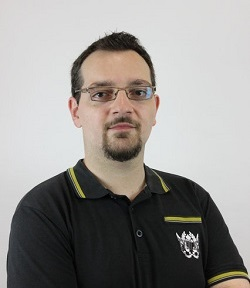
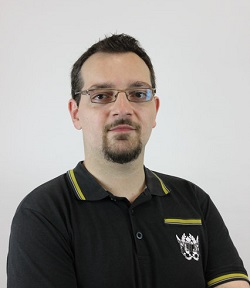
aside en sticky en mode desktop + réglages affichage articles en mode tablette et smartphone bascule d'écran

diff --git a/index.html b/index.html
@@ -78,7 +78,7 @@
 
                     </li>
                     <li >
-                        <article class="content container column lightGrayBack">
+                        <article class="content container column">
                             <div class="container">
                                 <i class="fas fa-circle"></i>
                                 <div>
@@ -109,7 +109,7 @@
                         </article>
                     </li>
                     <li>
-                        <article class="content container column lightGrayBack">
+                        <article class="content container column">
                             <div class="container"><i class="fas fa-circle"></i>
                                 <div>
                                     <p>Juin 2005</p>
@@ -156,7 +156,7 @@
                         </article>
                     </li>
                     <li>
-                        <article class="content container column lightGrayBack">
+                        <article class="content container column">
                             <div class="container">
                                 <i class="fas fa-circle"></i>
                                 <div>
@@ -343,24 +343,24 @@
                 <h2>Contact</h2>
 
                 <p><i class="fas fa-envelope"></i>
-                    alexis.georges54@gmail.com</p>
+                    alexis.georges54@gmail.com</br>
 
-                <p><i class="fas fa-phone-alt"></i>
-                    06.00.00.00.00</p>
+                <i class="fas fa-phone-alt"></i>
+                    06.00.00.00.00</br>
 
-                <p><i class="fas fa-map-marker-alt"></i>
-                    57000 Metz</p>
+                <i class="fas fa-map-marker-alt"></i>
+                    57000 Metz</br>
 
-                <p><i class="fab fa-linkedin"></i>
+                <i class="fab fa-linkedin"></i>
                     <a href="https://www.linkedin.com/in/alexis-georges/"
-                        target="_blank">linkedin.com/in/alexis-georges</a></p>
+                        target="_blank">linkedin.com/in/alexis-georges</a></br>
 
-                <p><i class="fab fa-github"></i>
+                <i class="fab fa-github"></i>
                     <a href="https://github.com/AlexisG-Webdev" target="_blank">AlexisG-Webdev</a></p>
             </article>
 
             <article id="about">
-                <h2>A propos de moi</h2>
+                <h2>A propos</h2>
 
                 <p>Apud has gentes, sed errant semper per spatia longe lateque distenta sine lare sine sedibus fixis
                     aut

diff --git a/style.css b/style.css
@@ -13,7 +13,7 @@
     border-radius: 50%;
     height       : 250px;
     width        : 250px;
-    margin-top   : 15px;
+    margin-top   : 20px;
     margin-left : auto;
     margin-right: auto;
 }
@@ -92,12 +92,6 @@ footer,
 }
 
 
-
-.lightGrayBack{
-    background-color: rgb(224,224,224);
-
-}
-
 /*** MISE EN PAGE ***/
 
 .container {
@@ -143,21 +137,17 @@ footer,
 
 #sectionContent ul li {
     list-style-type: none;
-    /* margin-left    : -40px; */
+    margin-left    : -15px;
 }
 
 #sectionContent ul ul li {
     list-style-type: square;
 }
 
-
-
 #hobbiesIcons,
 #footer {
     padding: 20px;
 }
-
-
 
 #footer,
 #contact i.fas,
@@ -182,14 +172,66 @@ footer,
     margin-right: 25px;
 }
 
-
-
 /* tablettes */
 
-@media only screen and (min-width: 768px) {}
+@media only screen and (min-width: 667px) {
+    .content {
+        flex-direction: row;
+    }
+    .content div{
+        width: 50%;
+    }
+}
+
 
 /* ordinateurs */
 
 @media only screen and (min-width: 1200px) {
+    #mainContent,
+    .content {
+        flex-direction: row;
+    }
+
+    #header {
+        width           : 100%;
+        height          : 200px;
+        color           : rgb(66, 66, 66);
+        background-color: unset;
+    }
+
+    #header h1 {
+        font-size: 2.5em;
+    }
+
+    #header p {
+        font-size: 1.5em;
+    }
+
+    #header h1,
+    #header p,
+    #sectionContent h2 {
+        text-align: left;
+    }
+
+
+    #informations {
+        width: 40%;
+        position: sticky;
+        top: 0;
+        height: 100%;
+    }
+
+    #sectionContent {
+        margin: 2.5%;
+        order : 2;
+    }
+
+    .sectionTitle {
+        justify-content: start;
+    }
+
+    .content div:first-child {
+        width: 30%;
+    }
 
 }
